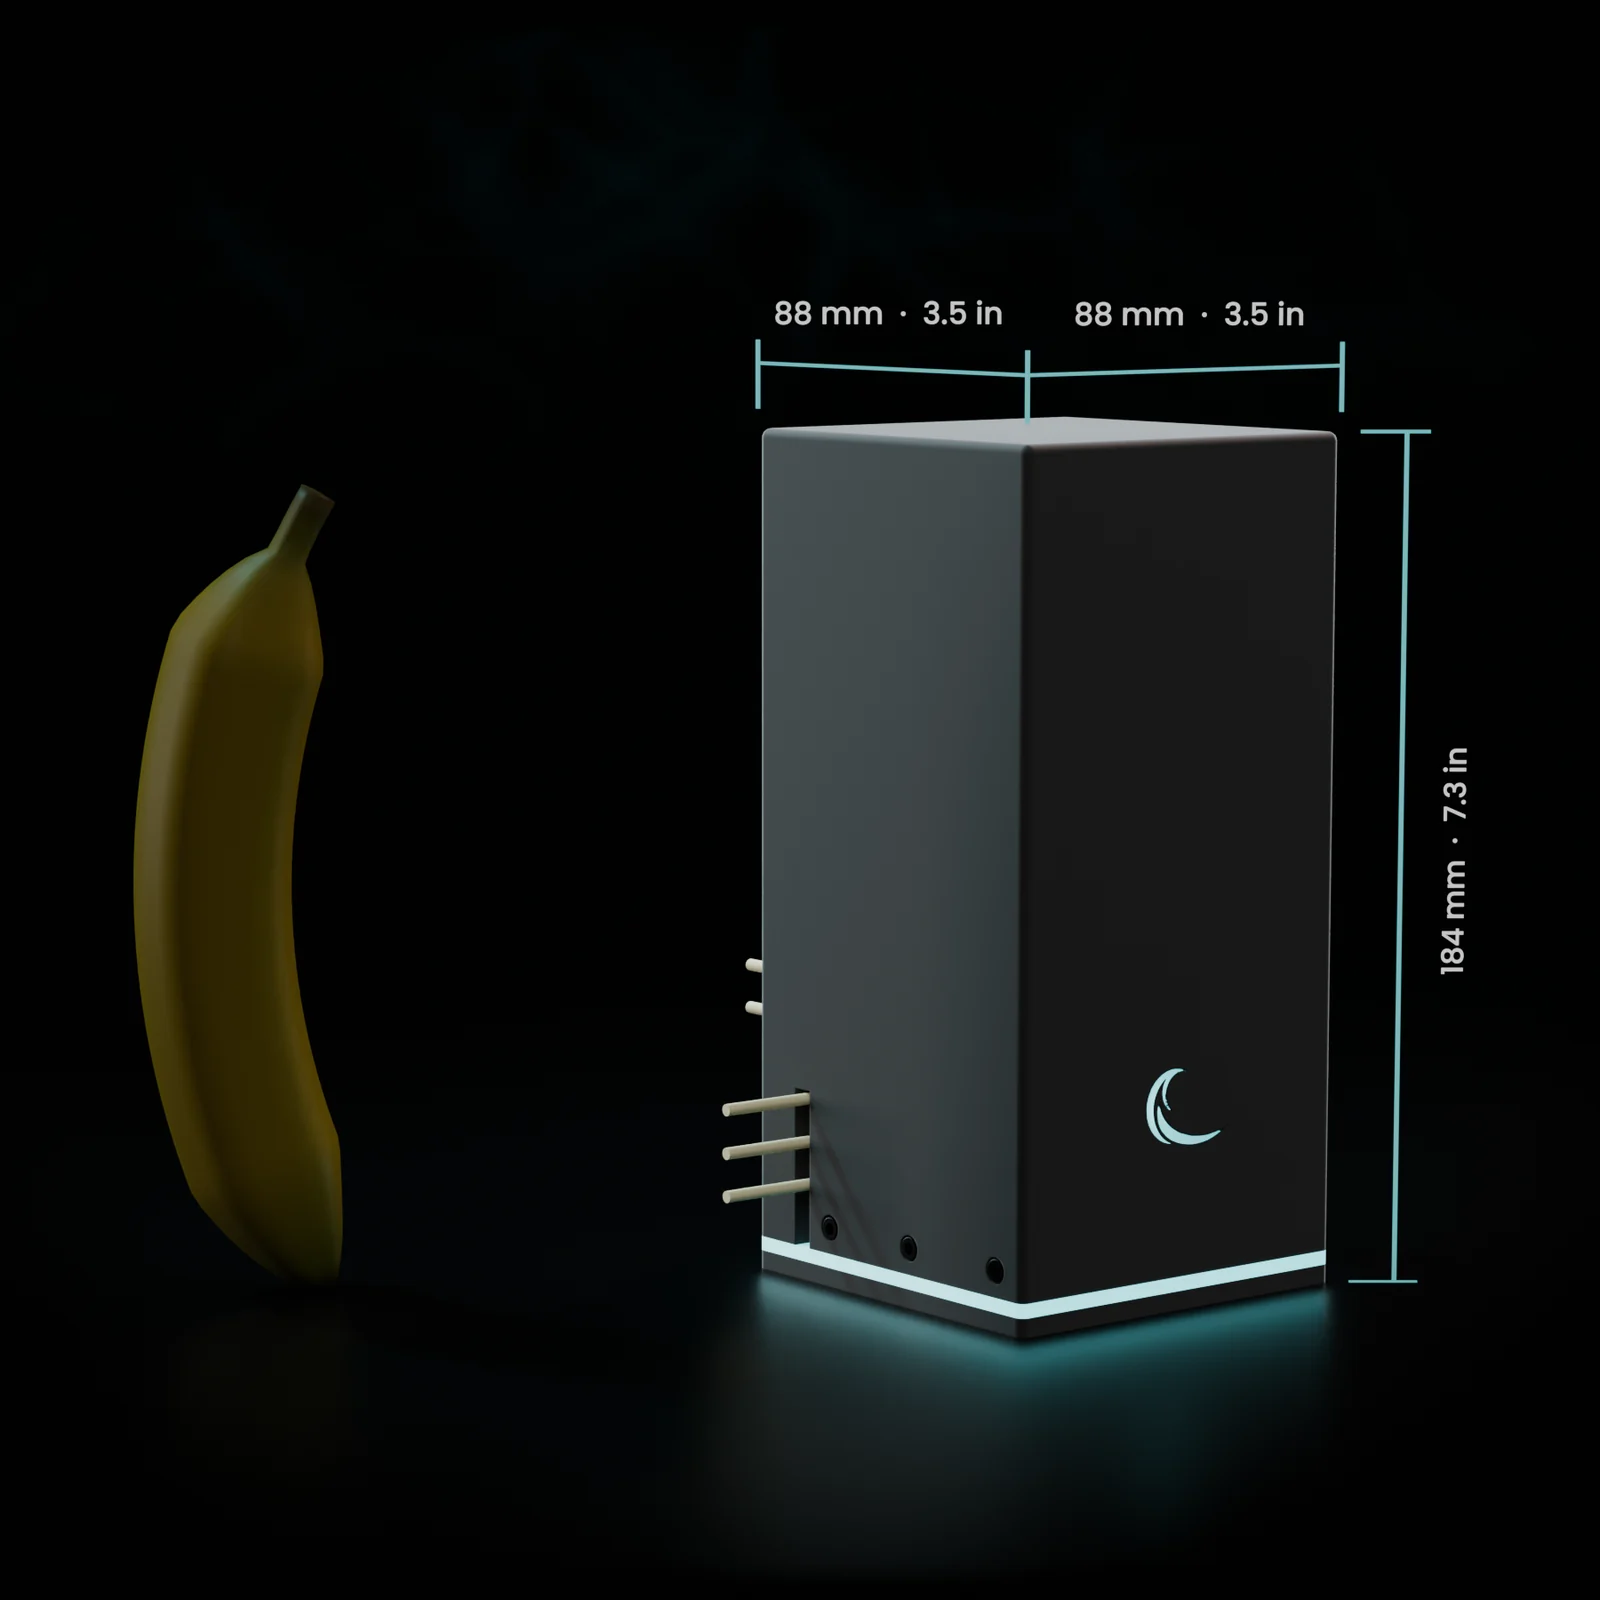
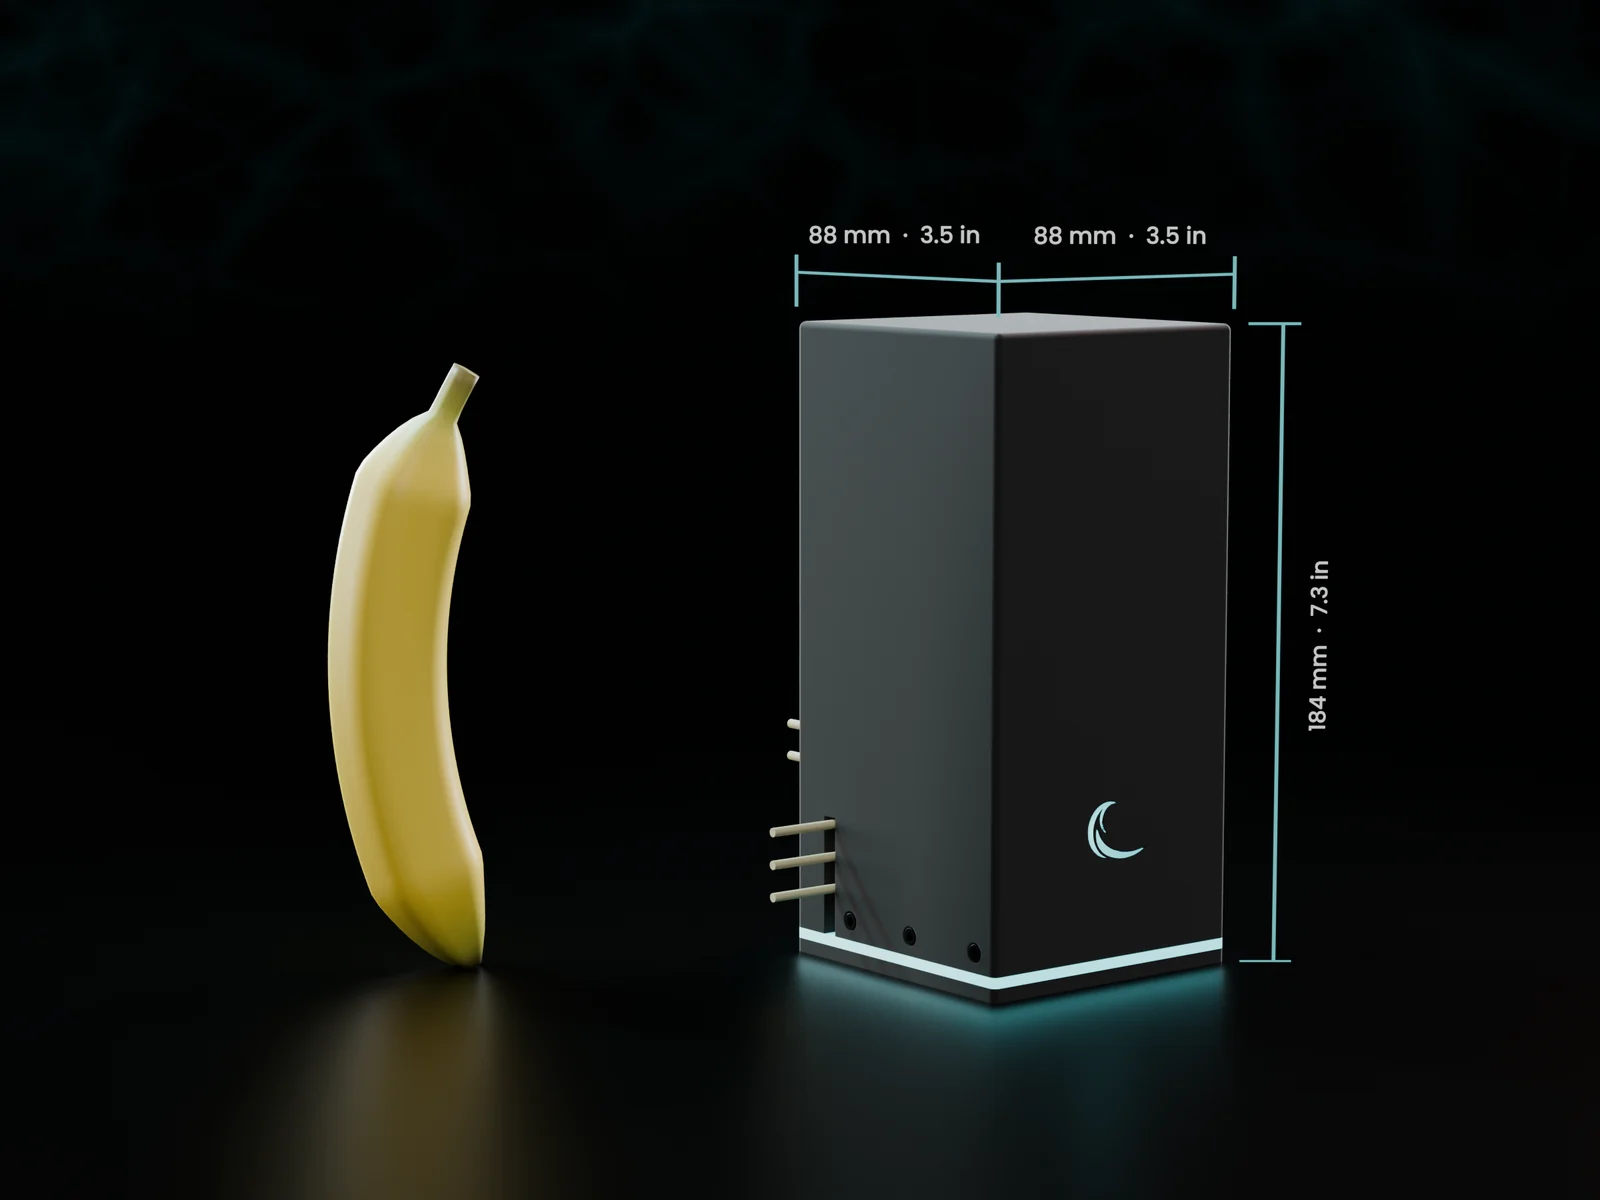
fix: caption timing, open hardware centring, size section stills
- Captions for beats that move straight away arrive before the motion,
  and the sleeve lift plays slower
- Open hardware image no longer takes its 1200px height attribute, so the
  section fits the screen and nav links centre it
- Banana lit like the tower; rear connector panel shown as a normally
  cropped photo; both stills are matching 4:3 rectangles
- What it measures fits one screen on short laptop displays

Claude-Session: https://claude.ai/code/session_01X9roU4yQXuoT988YzKPjXX

Changed region(s): [[0.4375, 0.185, 0.9375, 0.8633], [0.0625, 0.3083, 0.3438, 1.0], [0.5312, 0.9867, 0.5938, 1.0]]

diff --git a/assets/css/site.css b/assets/css/site.css
@@ -106,9 +106,9 @@ a:hover { text-decoration-color: currentColor; }
 .beat {
   position: absolute; inset: 0; display: flex; align-items: center;
   pointer-events: none; opacity: 0; visibility: hidden;
-  transition: opacity 0.7s ease, visibility 0s linear 0.7s;
+  transition: opacity 0.4s ease, visibility 0s linear 0.4s;
 }
-.beat.is-on { opacity: 1; visibility: visible; transition: opacity 0.7s ease 0.15s, visibility 0s; }
+.beat.is-on { opacity: 1; visibility: visible; transition: opacity 0.5s ease 0.1s, visibility 0s; }
 .beat.is-on .beat-copy { pointer-events: auto; }
 .beat .wrap { flex: 1; }
 .beat-copy { width: min(38%, 32rem); }
@@ -166,7 +166,7 @@ a:hover { text-decoration-color: currentColor; }
 /* Figures with a wide render */
 .figure { margin: clamp(40px, 6vw, 80px) 0 0; }
 .figure img { width: 100%; height: auto; }
-.duo { display: grid; grid-template-columns: repeat(2, minmax(0, 1fr)); gap: clamp(24px, 4vw, 64px); align-items: end; }
+.duo { display: grid; grid-template-columns: repeat(2, minmax(0, 1fr)); gap: clamp(24px, 4vw, 64px); align-items: start; }
 .duo figure { margin: 0; }
 .duo figcaption { margin-top: 18px; color: var(--ink-2); max-width: 26rem; }
 .duo figcaption strong { display: block; color: var(--ink); font-weight: 500; font-size: var(--step-1); letter-spacing: -0.01em; margin-bottom: 4px; }
@@ -266,7 +266,7 @@ html.js .unveil:not(.is-static) .port-list { position: absolute; width: 1px; hei
 
 /* The open hardware render is square; keep it from dominating the section */
 #open .split { align-items: center; }
-#open .split > img { width: 100%; max-width: 620px; aspect-ratio: 1; object-fit: contain; justify-self: center; }
+#open .split > img { width: 100%; height: auto; max-width: min(620px, 70vh); aspect-ratio: 1; object-fit: contain; justify-self: center; }
 
 /* Connector labels on a still render */
 figure[data-labels] { position: relative; }
@@ -275,3 +275,13 @@ figure[data-labels] { position: relative; }
 .figure-labels polyline { fill: none; stroke: rgba(255, 255, 255, 0.35); stroke-width: 1; }
 .figure-labels circle { fill: var(--teal-bright); }
 .figure-labels .tour-label { font-size: 0.75rem; }
+
+/* The size and connection stills are framed photographs, shown as matching rectangles */
+.duo img { aspect-ratio: 4 / 3; object-fit: cover; border-radius: 16px; }
+
+/* Short screens: keep the measures list inside one screen */
+@media (min-width: 701px) and (max-height: 820px) {
+  #measures .params { margin-top: 36px; }
+  #measures .params li { padding: 11px 0; font-size: 1.3rem; }
+  #measures .params h3 { padding-bottom: 12px; }
+}

diff --git a/assets/js/unveil.js b/assets/js/unveil.js
@@ -34,6 +34,12 @@
     mobile: { pxPerFrame: 22, holdVh: 0.6, ease: 0.08 },
   };
   const FIRST_HOLD_VH = 0.25;
+  // A beat that starts moving straight away (no glide to a new subject first)
+  // gets a short lead-in: its caption arrives while the picture is still, and
+  // only then does the motion begin, so the words come before the action.
+  const LEAD_IN_VH = 0.35;
+  // Some moves read better slower than the rest of the tour.
+  const BEAT_SPEED = { lift: 1.8 };
   const HOLD_DRIFT = 0.025; // the picture scales by this much across a hold
   const LOAD_LANES = 6;
   // Beats whose labels the page draws. Empty: the mainboard's labels are part
@@ -76,14 +82,21 @@
       const fromFrame = beat.from - 1;
       const toFrame = beat.to - 1;
       const el = captionById.get(beat.id);
+      const pxPerFrame = PX_PER_FRAME * (BEAT_SPEED[beat.id] || 1);
       if (el) {
         const glide = beat.action_from ? (beat.action_from - beat.from) / 2 : 0;
-        const handover = cursor + glide * PX_PER_FRAME;
+        const handover = cursor + glide * pxPerFrame;
         const previous = captions[captions.length - 1];
         if (previous) previous.end = handover;
         captions.push({ id: beat.id, el, start: index === 0 ? -1 : handover, end: Infinity });
+        if (index > 0 && !beat.action_from) {
+          const leadIn = viewport * LEAD_IN_VH;
+          const still = Math.max(0, fromFrame - 1);
+          segments.push({ start: cursor, end: cursor + leadIn, fromFrame: still, toFrame: still, hold: false });
+          cursor += leadIn;
+        }
       }
-      const moveLength = Math.max(0, toFrame - fromFrame) * PX_PER_FRAME;
+      const moveLength = Math.max(0, toFrame - fromFrame) * pxPerFrame;
       if (moveLength > 0) {
         segments.push({ start: cursor, end: cursor + moveLength, fromFrame, toFrame, hold: false });
         cursor += moveLength;
@@ -157,6 +170,7 @@
     const ratio = canvas.width / canvas.clientWidth;
     imageRect = { x: x / ratio, y: y / ratio, width: width / ratio, height: height / ratio };
     drawn = isLoaded(frames[index]) ? index : -1;
+    root.dataset.frame = String(index + 1); // read by the end-to-end site check
     root.classList.add("is-ready");
   }
 

diff --git a/index.html b/index.html
@@ -214,11 +214,11 @@
         </div>
         <div class="duo figure">
           <figure>
-            <img src="/assets/img/banana-dims.webp" alt="Wavie beside a banana for scale, with dimension lines showing 184 mm tall and 88 mm wide" width="1200" height="1200" loading="lazy" />
+            <img src="/assets/img/banana-dims.webp" alt="Wavie beside a banana for scale, with dimension lines showing 184 mm tall and 88 mm wide" width="1600" height="1200" loading="lazy" />
             <figcaption><strong>184 × 88 × 88 mm</strong>Banana for scale.</figcaption>
           </figure>
           <figure>
-            <img src="/assets/img/rear-ports.webp" alt="The rear of Wavie showing its row of connectors" width="1200" height="1200" loading="lazy" />
+            <img src="/assets/img/rear-ports.webp" alt="The rear connector panel of Wavie, labelled 24V, CAN, TMP, ORP, SA, PH and DO" width="1600" height="1200" loading="lazy" />
             <figcaption><strong>Everything connects at the back</strong>24 V power, the CAN expansion bus, and inputs for temperature, pH, ORP, salinity and dissolved oxygen.</figcaption>
           </figure>
         </div>
